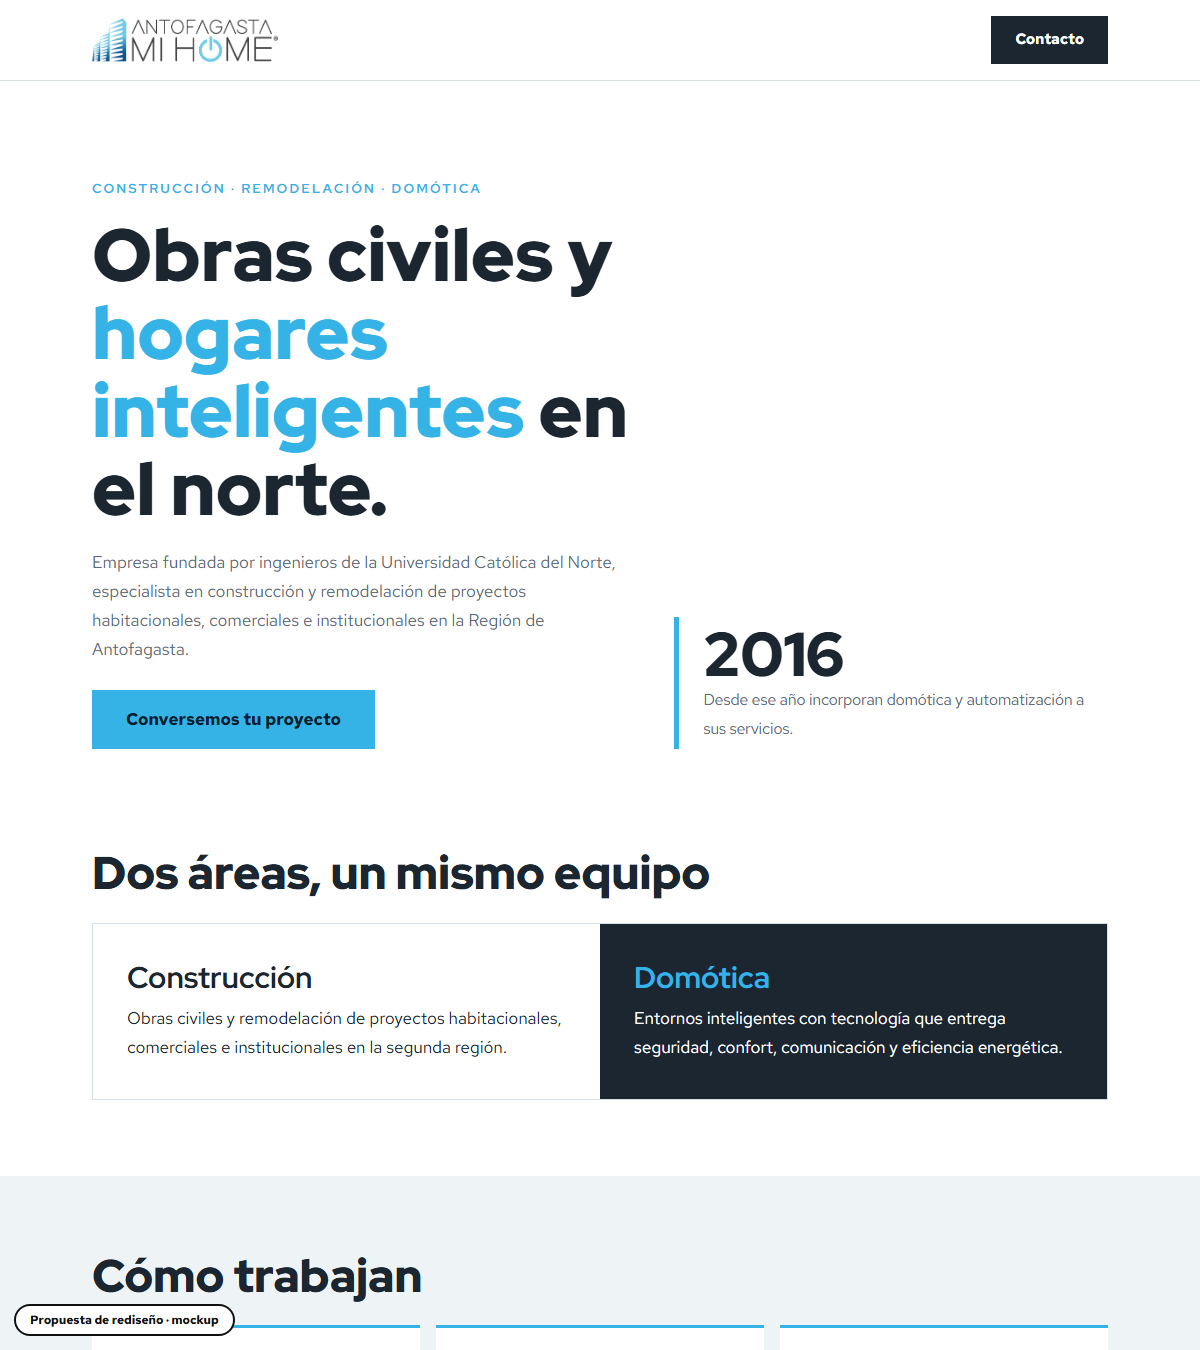
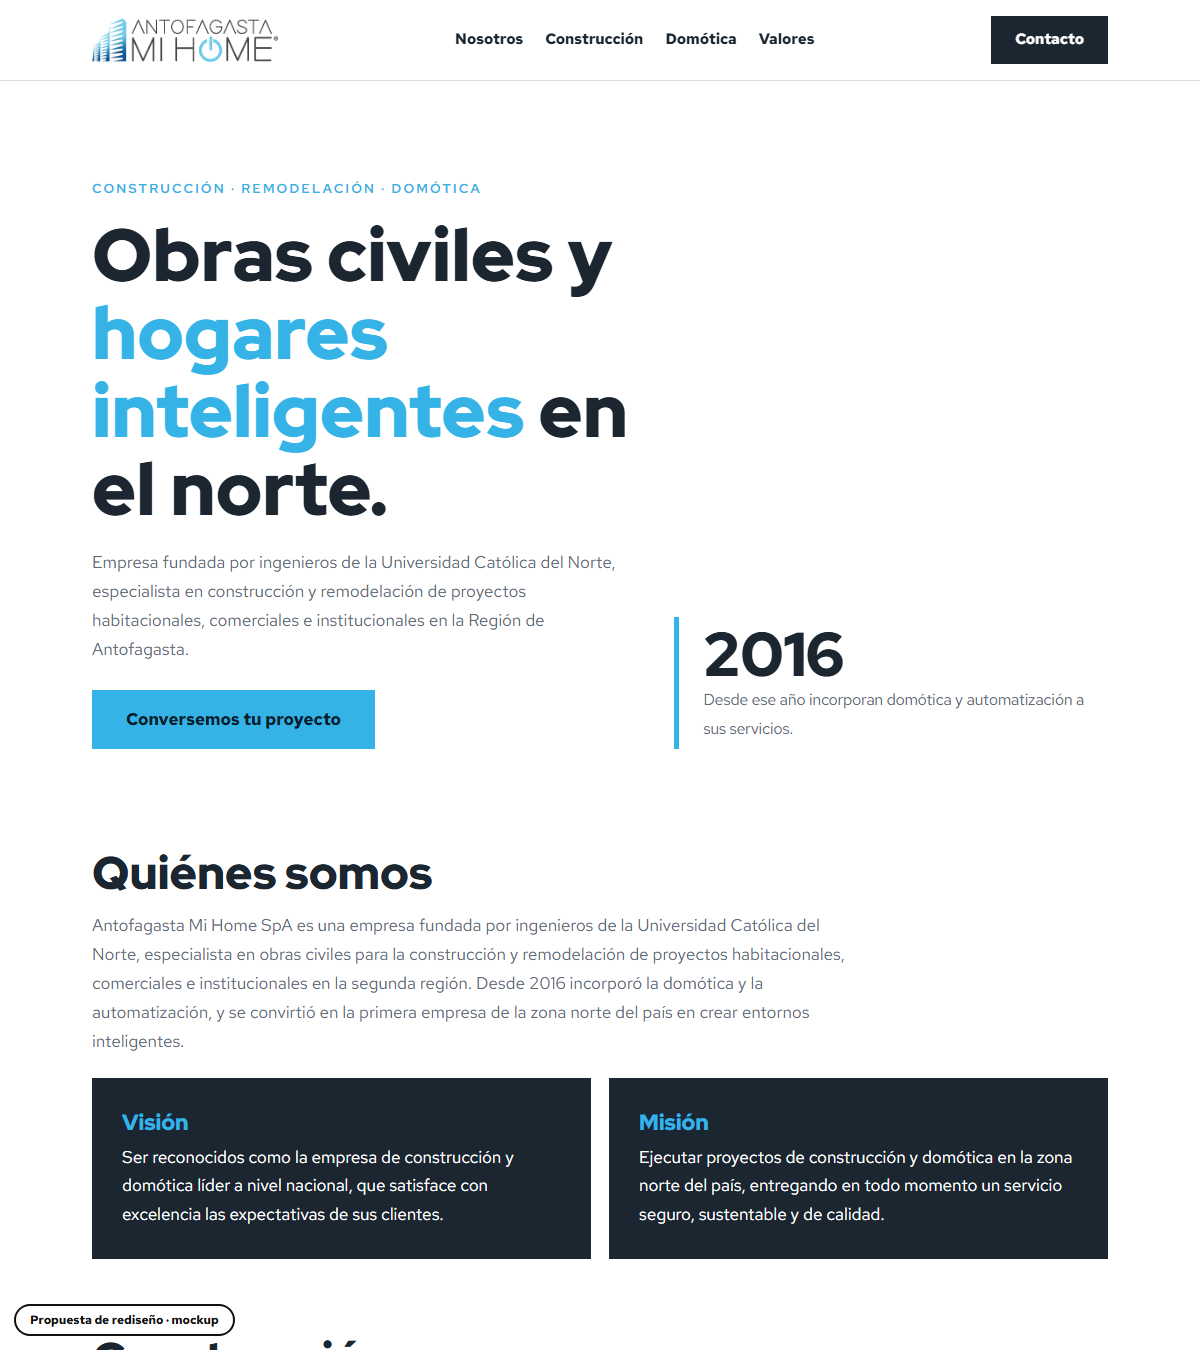
Mockup: antofagasta-mi-home-antofagasta

diff --git a/antofagasta-mi-home-antofagasta/index.html b/antofagasta-mi-home-antofagasta/index.html
@@ -6,12 +6,12 @@
 <link href="https://fonts.googleapis.com/css2?family=Red+Hat+Display:wght@500;700;900&family=Red+Hat+Text:wght@400;500;700&display=swap" rel="stylesheet">
 <style>
 :root{--ink:#1b2630;--aqua:#35b3e6;--mist:#eef3f6;--steel:#5c6b77;--line:#d6dfe5}
-*{box-sizing:border-box;margin:0}html{scroll-behavior:smooth}
+*{box-sizing:border-box;margin:0}html{scroll-behavior:smooth;scroll-padding-top:100px}
 @media(prefers-reduced-motion:reduce){html{scroll-behavior:auto}}
 body{background:#fff;color:var(--ink);font:400 17px/1.7 'Red Hat Text',sans-serif}
 .wrap{max-width:1060px;margin:0 auto;padding:0 22px}
 h1,h2,h3{font-family:'Red Hat Display',sans-serif;line-height:1.05}
-header{border-bottom:1px solid var(--line)}header .wrap{display:flex;justify-content:space-between;align-items:center;height:80px;gap:12px}
+header{position:sticky;top:0;z-index:20;border-bottom:1px solid var(--line)}header .wrap{display:flex;justify-content:space-between;align-items:center;height:80px;gap:12px}
 header img{height:44px}
 header a.b{background:var(--ink);color:#fff;text-decoration:none;padding:11px 24px;font-weight:700;font-size:15px}
 header a.b:hover{background:var(--aqua)}
@@ -31,13 +31,24 @@ section{padding:76px 0}h2{font-size:clamp(28px,4.2vw,46px);font-weight:900;margi
 .contact{background:var(--ink);color:#fff;text-align:center}.contact h2{color:#fff}.contact a.l{display:block;font:900 clamp(34px,6vw,62px) 'Red Hat Display';color:var(--aqua);text-decoration:none;margin:10px 0}
 .contact a.l:hover{color:#fff}
 footer{padding:22px 0 90px;text-align:center;font-size:13px;color:var(--steel)}
-.mock{position:fixed;left:14px;bottom:14px;background:#fff;color:#111;border:2px solid #111;font:700 12px/1 'Red Hat Text';padding:8px 14px;border-radius:30px;z-index:9}
+.mock{z-index:30;position:fixed;left:14px;bottom:14px;background:#fff;color:#111;border:2px solid #111;font:700 12px/1 'Red Hat Text';padding:8px 14px;border-radius:30px;z-index:9}
 @media(max-width:820px){.hero .wrap,.two,.vals ul{grid-template-columns:1fr}.hero .wrap{padding:54px 22px}}
-</style></head><body>
-<header><div class="wrap"><img src="assets/logo-antofagasta-mi-home.png" alt="Antofagasta Mi Home"><a class="b" href="#contacto">Contacto</a></div></header>
+nav{display:flex;gap:22px;font-size:15px;font-weight:700}nav a{color:var(--ink);text-decoration:none}nav a:hover{color:var(--aqua)}.lst{list-style:none;padding:0;margin-top:14px}.lst li{padding:8px 0 8px 26px;position:relative;border-bottom:1px solid #2c3b47}.two div+div .lst li{border-color:#2c3b47}.two .lst li:before{content:"";position:absolute;left:0;top:18px;width:12px;height:3px;background:var(--aqua)}.prod{display:grid;grid-template-columns:repeat(3,1fr);gap:14px;margin-top:24px}.prod>div{background:#fff;border:1px solid var(--line);border-top:3px solid var(--aqua);padding:24px 22px}.prod h3{font-size:18px;margin-bottom:6px}.prod p{font-size:15px;color:var(--steel)}.mv{display:grid;grid-template-columns:1fr 1fr;gap:18px;margin-top:22px}.mv>div{background:var(--ink);color:#fff;padding:30px}.mv b{font:900 22px "Red Hat Display";color:var(--aqua);display:block;margin-bottom:6px}@media(max-width:820px){nav{display:none}.prod,.mv{grid-template-columns:1fr}}</style></head><body>
+<header><div class="wrap"><img src="assets/logo-antofagasta-mi-home.png" alt="Antofagasta Mi Home"><nav><a href="#nosotros">Nosotros</a><a href="#construccion">Construcción</a><a href="#domotica">Domótica</a><a href="#valores">Valores</a></nav><a class="b" href="#contacto">Contacto</a></div></header>
 <div class="hero"><div class="wrap"><div><small>Construcción · Remodelación · Domótica</small><h1>Obras civiles y <span>hogares inteligentes</span> en el norte.</h1><p>Empresa fundada por ingenieros de la Universidad Católica del Norte, especialista en construcción y remodelación de proyectos habitacionales, comerciales e institucionales en la Región de Antofagasta.</p><a class="btn" href="#contacto">Conversemos tu proyecto</a></div><div class="stat"><b>2016</b><span>Desde ese año incorporan domótica y automatización a sus servicios.</span></div></div></div>
-<section style="padding-top:20px"><div class="wrap"><h2>Dos áreas, un mismo equipo</h2><div class="two"><div><h3>Construcción</h3><p>Obras civiles y remodelación de proyectos habitacionales, comerciales e institucionales en la segunda región.</p></div><div><h3>Domótica</h3><p>Entornos inteligentes con tecnología que entrega seguridad, confort, comunicación y eficiencia energética.</p></div></div></div></section>
-<section class="vals"><div class="wrap"><h2>Cómo trabajan</h2><ul><li><b>Honestidad</b>Objetividad y confidencialidad con sus clientes.</li><li><b>Confianza</b>Relaciones a largo plazo con personal, proveedores y clientes.</li><li><b>Fiabilidad</b>Soluciones y compromisos que se respetan.</li><li><b>Profesionalismo</b>La calidad de lo que hacen mejora cada vez.</li><li><b>Ética</b>Transparencia y trabajo honesto.</li><li><b>Innovación</b>Nuevos servicios y tecnologías para reinventarse.</li></ul></div></section>
+<section id="nosotros" style="padding-top:20px"><div class="wrap"><h2>Quiénes somos</h2><p style="max-width:68ch;color:var(--steel)">Antofagasta Mi Home SpA es una empresa fundada por ingenieros de la Universidad Católica del Norte, especialista en obras civiles para la construcción y remodelación de proyectos habitacionales, comerciales e institucionales en la segunda región. Desde 2016 incorporó la domótica y la automatización, y se convirtió en la primera empresa de la zona norte del país en crear entornos inteligentes.</p><div class="mv"><div><b>Visión</b>Ser reconocidos como la empresa de construcción y domótica líder a nivel nacional, que satisface con excelencia las expectativas de sus clientes.</div><div><b>Misión</b>Ejecutar proyectos de construcción y domótica en la zona norte del país, entregando en todo momento un servicio seguro, sustentable y de calidad.</div></div></div></section>
+<section id="construccion" style="padding-top:0"><div class="wrap"><h2>Construcción</h2><div class="two"><div style="background:var(--ink);color:#fff"><h3 style="color:var(--aqua)">Para el sector público y privado</h3><p>Asesoría, estudio y ejecución de todo tipo de obras y proyectos de ingeniería y construcción, con dirección, fiscalización y representación con asistencia profesional.</p></div><div style="background:var(--mist);color:var(--ink)"><h3 style="color:var(--ink)">Construcción civil y obras menores</h3><ul class="lst"><li>Construcción y remodelación habitacional (obra gruesa y/o metalcom)</li><li>Construcción y remodelación comercial</li><li>Construcción y remodelación institucional</li><li>Instalación de cerraduras convencionales y digitales</li><li>Instalación de soportes para televisores y artículos electrónicos</li></ul></div></div></div></section>
+<section id="domotica" class="vals" style="background:var(--mist)"><div class="wrap"><h2>Domótica: entornos inteligentes</h2><p style="max-width:68ch;color:var(--steel)">Pioneros en entornos inteligentes, con hogares, oficinas y locales comerciales de la segunda región como principales clientes. Importan, gestionan, comercializan, instalan y asesoran sistemas domóticos líderes en el mundo. Revisa el estado de tus dispositivos y controla tu entorno desde cualquier lugar, con solo un toque en tu smartphone.</p><div class="prod">
+<div><h3>Sensor de movimiento</h3><p>Detecta movimiento, mide temperatura e intensidad de la luz, y capta cambios de posición.</p></div>
+<div><h3>Sensor de fugas</h3><p>Con sensor de temperatura, detección de intrusos, alarma sonora e indicadores de luz.</p></div>
+<div><h3>Sensor de puerta y ventana</h3><p>Sensor de contacto con protección contra manipulación y sensor de temperatura.</p></div>
+<div><h3>Sensor de monóxido de carbono</h3><p>Mediciones precisas, con alarma sonora; funciona incluso sin conexión al sistema.</p></div>
+<div><h3>Sensor de humo</h3><p>Detector de humo y alarma de incendios en uno, con alarma de sonido y luz indicadora.</p></div>
+<div><h3>Enchufe inteligente</h3><p>Interruptor para casi cualquier electrodoméstico, con medidor de energía y protección contra sobrevoltaje.</p></div>
+<div><h3>Módulos de interruptor</h3><p>Encienden y apagan luces y electrodomésticos, y miden el consumo de energía.</p></div>
+<div><h3>Dimmer</h3><p>Regula la intensidad de la luz, con medidor de energía y encendido gradual.</p></div>
+<div><h3>Control de cortinas</h3><p>Controla cortinas roller motorizadas, persianas, toldos y compuertas.</p></div></div></div></section>
+<section id="valores"><div class="wrap"><h2>Cómo trabajan</h2><ul class="lst" style="color:var(--ink)"><li><b>Honestidad.</b> Objetividad y confidencialidad en la relación con los clientes.</li><li><b>Confianza.</b> Relaciones a largo plazo con personal, proveedores y clientes.</li><li><b>Fiabilidad.</b> Veracidad en lo que dicen y hacen, y compromisos que se respetan.</li><li><b>Profesionalismo.</b> Calidad cada vez mejor en el trabajo diario.</li><li><b>Ética.</b> Trabajo honesto, con transparencia como eje.</li><li><b>Innovación.</b> Nuevos mercados, servicios y tecnologías, reinventando lo que fue un éxito.</li></ul></div></section>
 <section class="contact" id="contacto"><div class="wrap"><h2>Cuéntanos tu proyecto</h2><a class="l" href="tel:+56991018908">+56 9 9101 8908</a><p>Av. Angamos #085, Of. 804, Antofagasta<br><a style="color:#fff" href="mailto:contacto@amihome.cl">contacto@amihome.cl</a></p></div></section>
 <footer>ANTOFAGASTA MI HOME SpA</footer>
 <div class="mock">Propuesta de rediseño · mockup</div></body></html>
